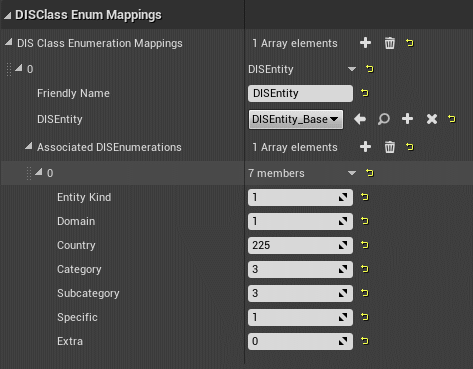
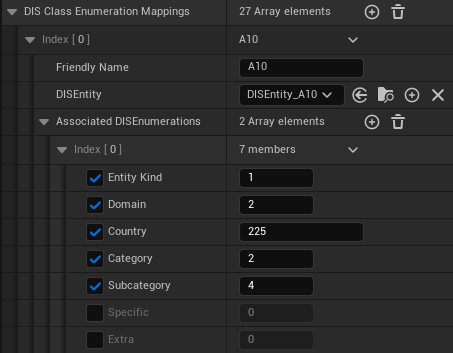
Update CHANGELOG and README.

diff --git a/README.md b/README.md
@@ -289,6 +289,7 @@ _**Additional info for all of these topics can be found in their respective sect
     - Entity Type
 		- This record specifies the kind of entity, the country of design, the domain, the specific identification of the entity, and any extra information necessary for describing the entity.
         - This value should be set on the component and will be used when sending automatic PDU updates.
+        - _**NOTE**_: The checkbox to the left of the Entity Type fields has no functionality in the DIS Send component outside of being able to edit the variable. This checkbox is used for Entity Type wildcards and only has functionality when receiving Entity Type info.
     - Entity ID
 		- This record specifies the ID of the associated entity fields. When sending, this can be combined with the Site ID and Application ID stored in the DIS Game Manager to form the unique identifier of the entity in the exercise.
         - This value should be set on the component and will be used when sending automatic PDU updates.
@@ -359,6 +360,10 @@ _**Additional info for all of these topics can be found in their respective sect
         - _**NOTE**_: In order for actors to appear in this section, they need to implement the DIS Interface. See the [_**DIS Interface**_](#dis-interface) section above.
     - Associated DIS Enumerations
         - All desired DIS Enumerations that should point to this actor.
+        - _**NOTE**_: The checkbox to the left of the Entity Type fields represents wildcards.
+            - If the checkbox is enabled, the specific value given will be referenced.
+            - If the checkbox is disabled, the value will be treated as a wildcard.
+            - Ex: The below image would use wildcards for the Specific and Extra fields.
         - _**NOTE**_: If duplicate enumerations are found across multiple entities, an appropriate message is logged and the most recent encountered actor to enumeration mapping is used.
         - _**NOTE**_: If a DIS Enumeration is received on the network and no mapping exists for it, an appropriate message is logged and the packet is ignored.
         - For a breakdown of the individual elements of a DIS Enumeration, refer to the [Naval Postgraduate School's Documentation](http://faculty.nps.edu/brutzman/vrtp/mil/navy/nps/disenumerations/jdbehtmlfiles/pdu/28.htm#:~:text=Description%3A%20The%20type%20of%20entity,necessary%20for%20describing%20the%20entity.).

diff --git a/CHANGELOG.md b/CHANGELOG.md
@@ -1,8 +1,13 @@
 # Changelog
 
+## Beta 0.9.1 (untagged)
+
+- Fixed rotation issues when sending an entity that is far away from the Unreal Engine origin.
+- Implemented wildcards for Entity Types.
+
 ## Beta 0.9.0
 
-- Fixed rotation issues when an entity is far away from Unreal Engine origin.
+- Fixed rotation issues when receiving an entity is far away from Unreal Engine origin.
 - Updated DIS_BPFL to use FGeographicCoordinates rather than individual floats for lat and lon.
 - Updated function names in DIS_BPFL to use altitude rather than height
 - Renamed GetUnrealLocationAndOrientationFromEntityStatePdu to GetUnrealLocationAndRotationFromEntityStatePdu to better align with other function names inside of DIS_BPFL.
